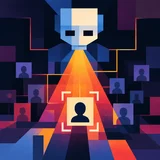
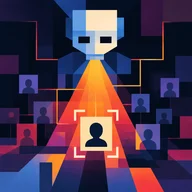
Enlarge the publication thumbnails to 88px

diff --git a/index.html b/index.html
@@ -299,8 +299,8 @@
           <img
             class="publication-thumb"
             src="assets/pub-deanon.webp"
-            width="160"
-            height="160"
+            width="192"
+            height="192"
             alt=""
           />
           <div class="publication-body">
@@ -557,8 +557,8 @@
           <img
             class="publication-thumb"
             src="assets/pub-modal-aphasia.webp"
-            width="160"
-            height="160"
+            width="192"
+            height="192"
             alt=""
           />
           <div class="publication-body">

diff --git a/style.css b/style.css
@@ -488,8 +488,8 @@ html[data-theme="dark"] .masthead-boat {
 
 .publication-thumb {
   flex: none;
-  width: 76px;
-  height: 76px;
+  width: 88px;
+  height: 88px;
   border-radius: 8px;
   border: 1px solid var(--border);
   object-fit: cover;
